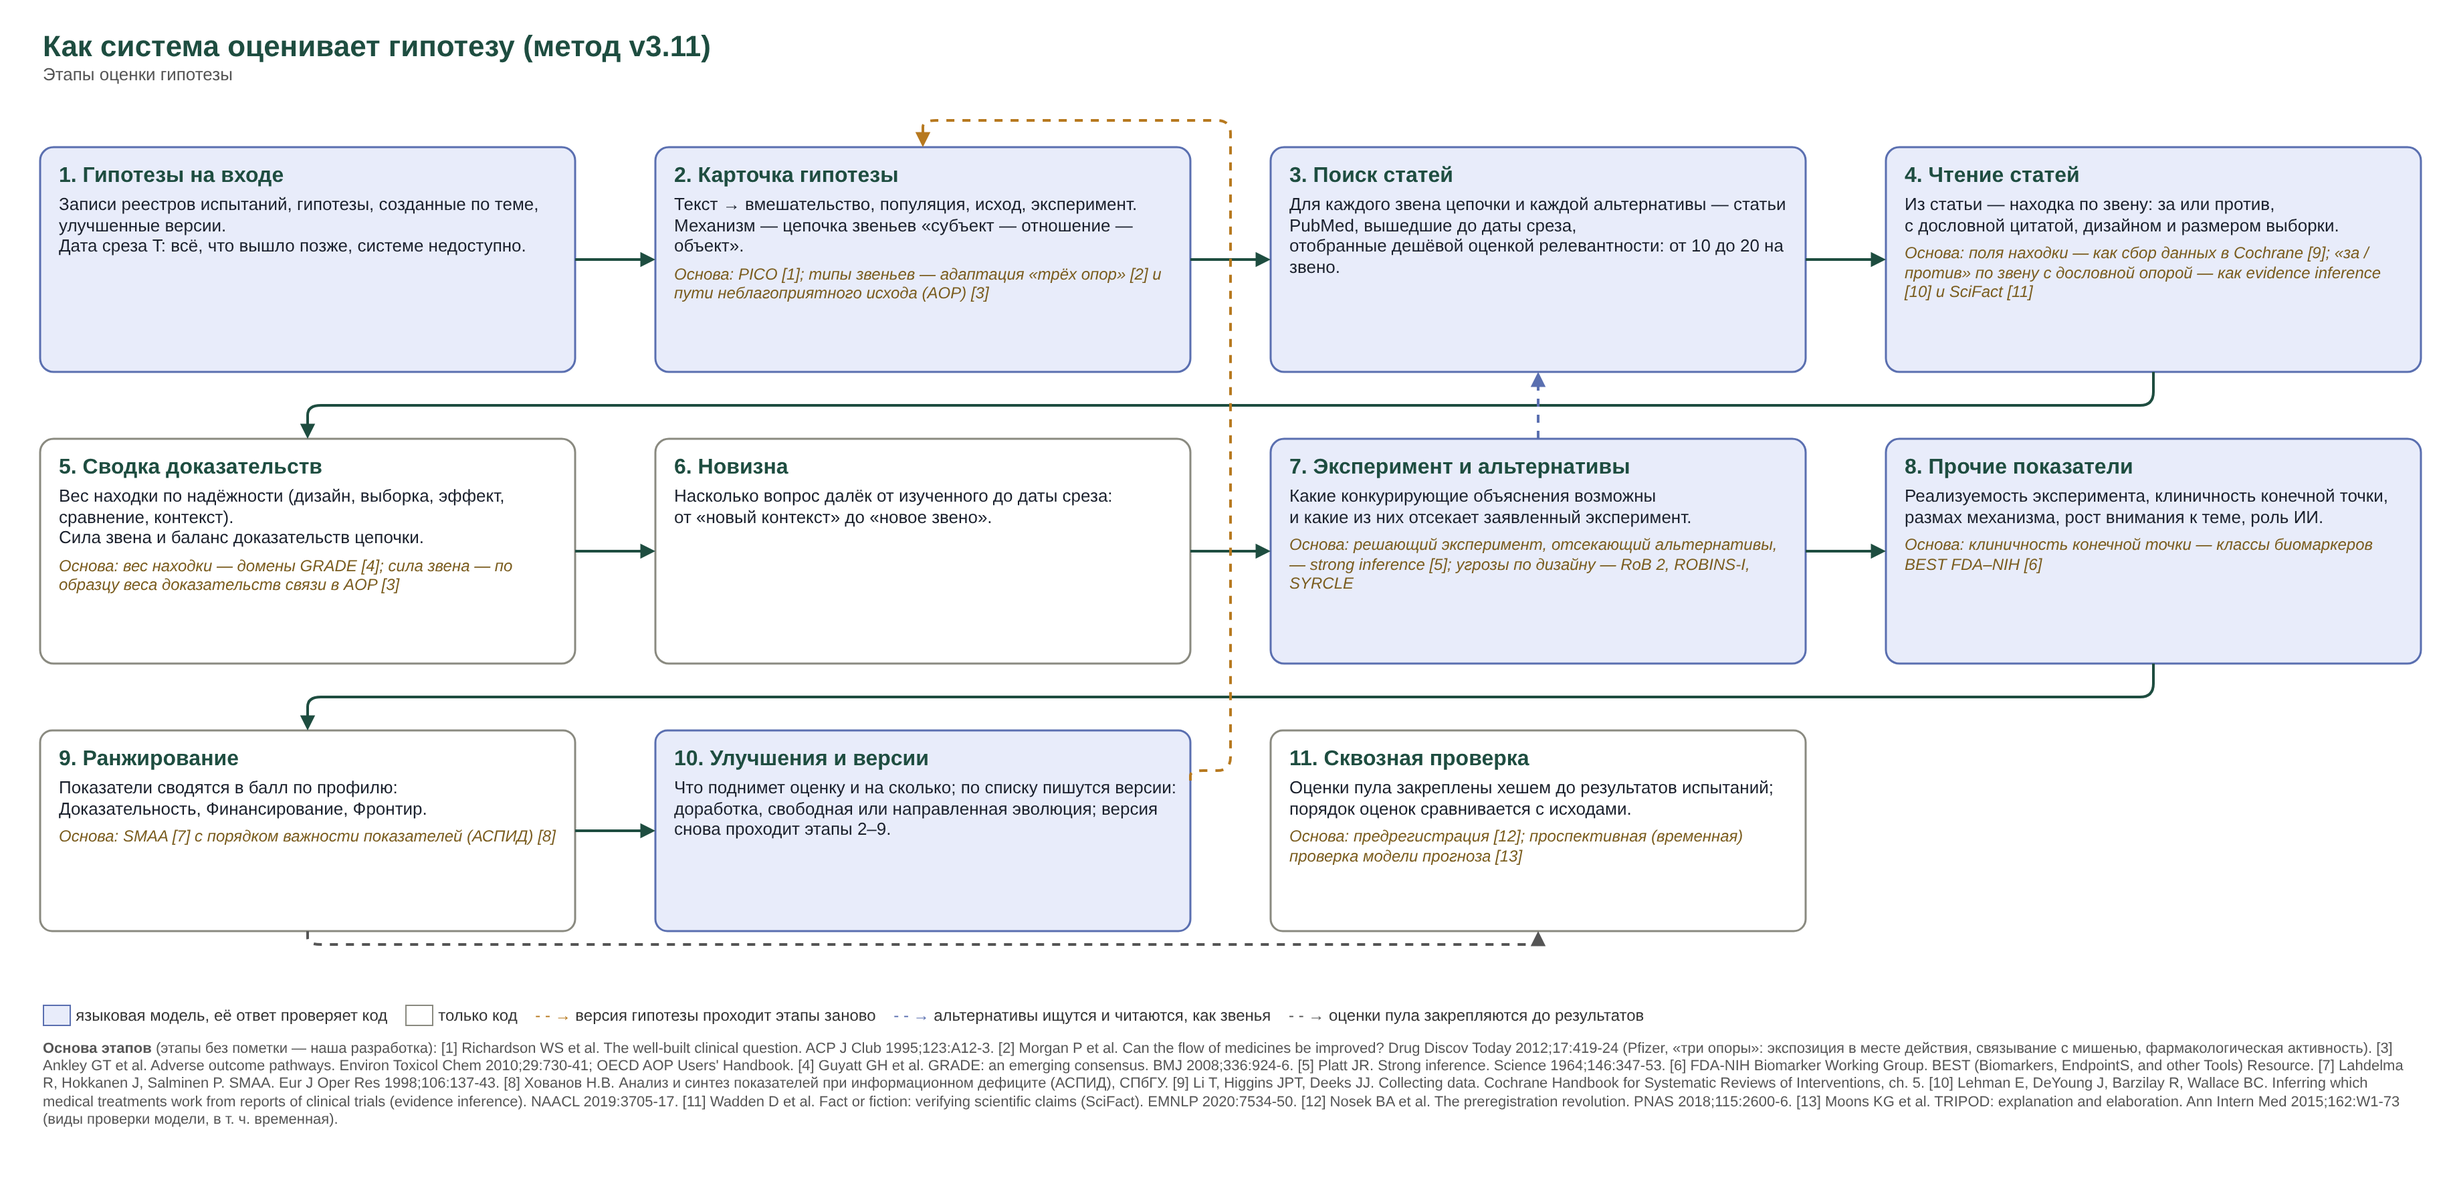
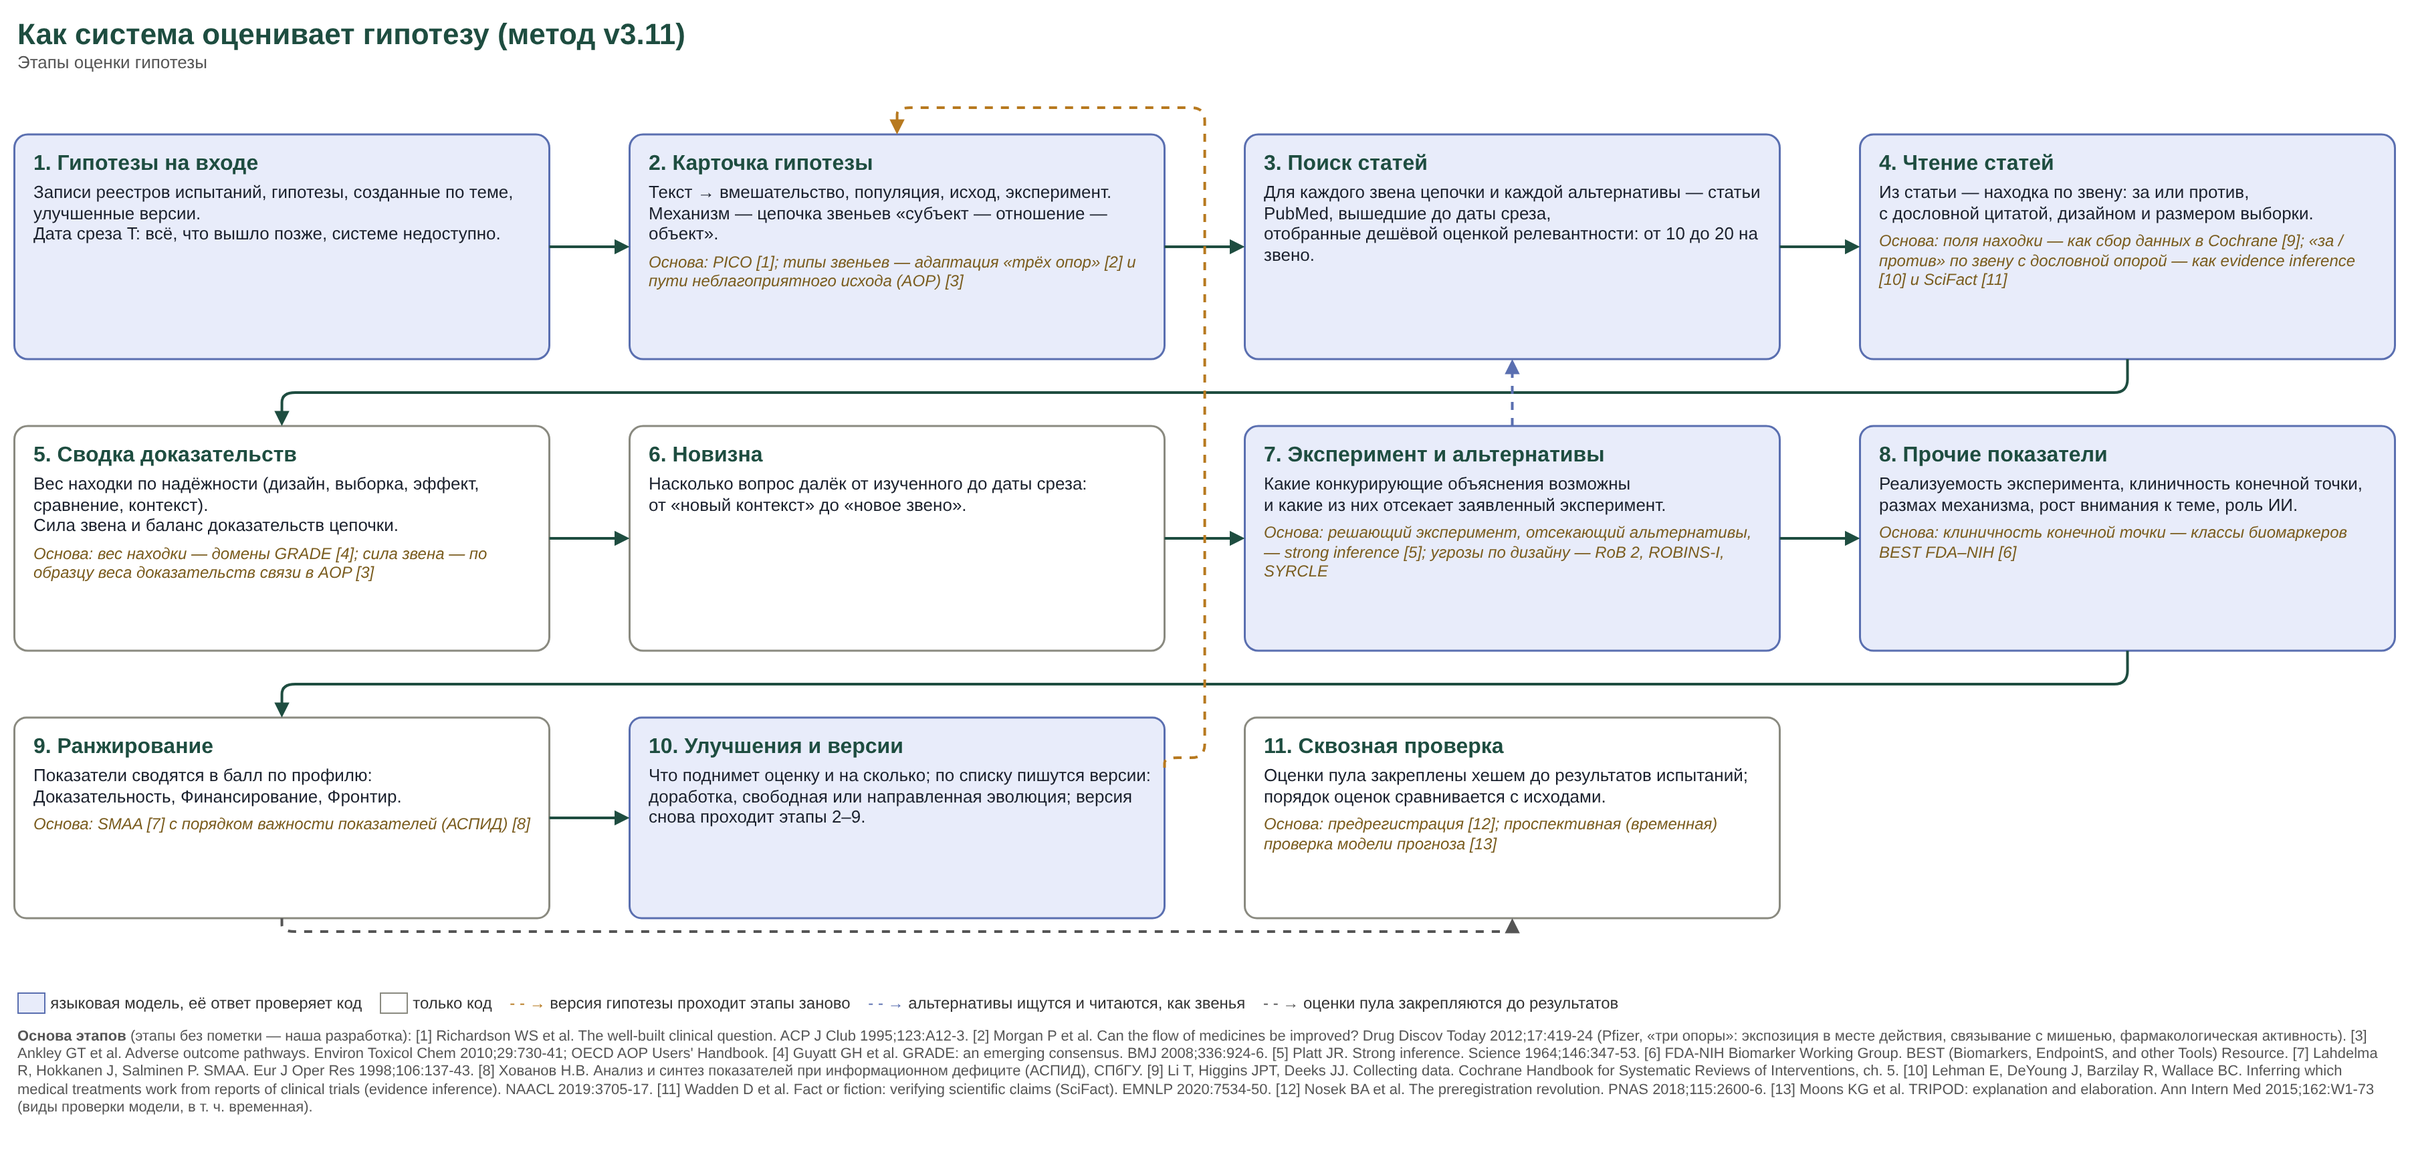
Schemes redrawn by a committed renderer (scripts/docs/render_png.js); flow scheme R2 updated; backlog rows closed this session
Claude-Session: https://claude.ai/code/session_014jxraCjTFHWU4KJvjYB1bf

diff --git a/scripts/docs/render_png.js b/scripts/docs/render_png.js
@@ -1,0 +1,49 @@
+// Renders the .drawio schemes of this folder to PNG (docs/method/schemes/) with mxgraph in headless Chromium.
+//
+//   npm i mxgraph@4.2.2            (in any folder outside the repository; MXCLIENT below points to it)
+//   python3 scripts/docs/build_flow.py && python3 scripts/docs/build_scheme.py     # the .drawio files
+//   MXCLIENT=/path/node_modules/mxgraph/javascript/mxClient.min.js node scripts/docs/render_png.js
+//
+// Needs the Node Playwright of the environment (require('playwright')). Each diagram is drawn at its own bounds, with
+// HTML labels, and screenshotted at deviceScaleFactor 2.
+const fs = require('fs');
+const path = require('path');
+const { chromium } = require('playwright');
+
+const HERE = __dirname;
+const OUT = path.join(HERE, '..', '..', 'docs', 'method', 'schemes');
+const MXCLIENT = process.env.MXCLIENT;
+const NAMES = process.argv.slice(2).length ? process.argv.slice(2)
+  : fs.readdirSync(HERE).filter(f => f.endsWith('.drawio')).map(f => f.replace(/\.drawio$/, ''));
+
+(async () => {
+  if (!MXCLIENT || !fs.existsSync(MXCLIENT)) throw new Error('set MXCLIENT to mxClient.min.js of mxgraph@4.2.2');
+  const browser = await chromium.launch();
+  const page = await browser.newPage({ deviceScaleFactor: 2, viewport: { width: 1200, height: 800 } });
+  await page.setContent('<html><body style="margin:0;background:#fff"><div id="g" style="position:relative;overflow:hidden"></div></body></html>');
+  await page.addScriptTag({ content: 'window.mxLoadResources = false; window.mxLoadStylesheets = false; window.mxBasePath = "";' });
+  await page.addScriptTag({ path: MXCLIENT });
+  for (const name of NAMES) {
+    const xml = fs.readFileSync(path.join(HERE, `${name}.drawio`), 'utf8');
+    const model = xml.match(/<mxGraphModel[\s\S]*<\/mxGraphModel>/)[0];
+    const size = await page.evaluate((model) => {
+      const c = document.getElementById('g');
+      c.innerHTML = '';
+      c.style.width = '10000px'; c.style.height = '10000px';
+      const graph = new mxGraph(c);
+      graph.setHtmlLabels(true);
+      graph.setEnabled(false);
+      const doc = mxUtils.parseXml(model);
+      new mxCodec(doc).decode(doc.documentElement, graph.getModel());
+      const b = graph.getGraphBounds();
+      graph.view.setTranslate(-b.x + 10, -b.y + 10);
+      const w = Math.ceil(b.width + 20), h = Math.ceil(b.height + 20);
+      c.style.width = w + 'px'; c.style.height = h + 'px';
+      return { w, h };
+    }, model);
+    await page.setViewportSize({ width: size.w, height: size.h });
+    await page.locator('#g').screenshot({ path: path.join(OUT, `${name}.png`) });
+    console.log(`${name}.png ${size.w}x${size.h}`);
+  }
+  await browser.close();
+})();

diff --git a/scripts/docs/build_flow.py b/scripts/docs/build_flow.py
@@ -7,7 +7,7 @@ link strength are one stage (both are the summary of the evidence); different th
 
     python scripts/docs/build_flow.py      # writes flow_<variant>.drawio for every variant in VARIANTS
 
-PNG: render each .drawio with mxgraph (see docs/method/README.md; the PNGs go to docs/method/schemes/)."""
+PNG: node scripts/docs/render_png.js (mxgraph in headless Chromium; the PNGs go to docs/method/schemes/)."""
 from pathlib import Path
 from xml.sax.saxutils import escape
 
@@ -61,7 +61,7 @@ STAGES = [
          base=["Вес находки по надёжности (дизайн, выборка, эффект, сравнение, контекст).",
                "Сила звена и баланс доказательств цепочки."],
          code=["Вес по доменам GRADE; сила звена из суммы «за» и «против»; баланс — среднее по звеньям с данными."],
-         own=["Поздние испытания: по находкам, вышедшим до более позднего РКИ или метаанализа того же звена, угадывается его результат (AUC 0.70).", "Внешний читатель вслепую упорядочивает 80 пар находок по надёжности; сравниваем с порядком наших весов."],
+         own=["Поздние испытания: по находкам, вышедшим до более позднего РКИ или метаанализа того же звена, угадывается его результат: AUC 0.58 на 722 целях (0.55 по парам разных звеньев; на хорошо изученных звеньях около 0.75).", "Внешний читатель вслепую упорядочивает 80 пар находок по надёжности; сравниваем с порядком наших весов."],
          base_llm=["Модели, спрошенные «подтвердится ли», угадывают лучше — но с утечкой; честно только проспективно."],
          why=["Каждый множитель — домен GRADE: дизайн (исходный уровень доверия), точность, крупный эффект, сравнение (часть риска смещения), непрямота.", "Исходы испытаний шумные и их мало, поэтому уровни подбирались по другим эталонам; из равных по качеству выбран более простой."]),
     dict(name="6. Новизна", params="новое звено — меньше 5 статей PubMed до T — порог задан до пилота, не калиброван.", kind="code",

diff --git a/docs/backlog.md b/docs/backlog.md
@@ -45,17 +45,17 @@ Items the user decided to defer; each points to its spec. Kept until done or dro
 | 2026-11-12 (MeSH done 2026-11-14: `hyparena/tools/mesh.py`, `normalizer.add_identifiers`) | Entity identifiers by code (MeSH via E-utilities first; ChEBI, HGNC when their hosts are open): exact match or MeSH entry term, else empty | manual section 3 (v13), `docs/method/card.md` section 3 | MeSH done 2026-11-14; ChEBI and HGNC when their hosts are open from the environment |
 | 2026-11-12 | AI role, plausible part: an LLM judges the role AI could play (two families, weight 1/2, the phrase it rests on), the stated role keeps weight 1; admission on an Argon gold (pack 17 has both parts) | `docs/method/card.md` section 3 | the prompt and the two-family run on pack 17 texts, priced |
 | 2026-11-12 | Link necessity (AOP essentiality): a record that blocks a step (knockout, inhibitor) weighs as such | `docs/method/foundations.md` (what we lack) | pools with molecular chains (frontier, generated) |
-| 2026-11-12 | Documentation: a detailed manual per stage (as `docs/method/card.md` for the card) and the summary manual `docs/method/manual.md` as their compressed aggregation (the outside reader works from it, so it stays self-contained); report rules stay sections 10 and 10a of the summary | `docs/method/card.md` | written: card, search, reading, from a record to the evidence balance (`docs/method/evidence.md`); novelty (`docs/method/novelty.md`), indicators and ranking (`docs/method/ranking.md`), improvements and versions (`docs/method/versions.md`), experiment and alternatives (`docs/method/alternatives.md`); next: the end-to-end check after the calibration run |
+| 2026-11-12 | Documentation: a detailed manual per stage (as `docs/method/card.md` for the card) and the summary manual `docs/method/manual.md` as their compressed aggregation (the outside reader works from it, so it stays self-contained); report rules stay sections 10 and 10a of the summary | `docs/method/card.md` | written: card, search, reading, from a record to the evidence balance (`docs/method/evidence.md`); novelty (`docs/method/novelty.md`), indicators and ranking (`docs/method/ranking.md`), improvements and versions (`docs/method/versions.md`), experiment and alternatives (`docs/method/alternatives.md`); the end-to-end check (`docs/validation/whole-system.md`, 2026-11-16): every stage has its manual; the method documents are in one folder, `docs/method/` (2026-11-16) |
 | 2026-11-12 | Edges between claims (requires, supports if true, analog of, contradicts) for the knowledge graph: links between claims of different hypotheses and papers; not extracted from v14 (no rule read them) | `docs/method/card.md` section 1 | with the knowledge-graph work (longevity-kg), when a consumer exists |
 | 2026-11-14 | Three checks of the whole system kept for method v3, nothing run yet: (1) historical check on ITP (Interventions Testing Program) mouse lifespan results — pool of 33 compounds tested after 2022 (8 extended lifespan, 3 harmful, 22 no effect) as the main one, the 2010 pool of 70 compounds only as a secondary one because models may remember its outcomes; (2) negatives test (true DrugAge finding among altered copies: other sex, dose, direction), possibly merged into the known-facts test of the reading stage; (3) comparison with a Co-Scientist-style baseline (one LLM judges pairs in a tournament, Elo rating) against the v3 ranking on the same pools with known outcomes | runners: `hyparena/whole_system/backtest.py` (`v2 --config`), `hyparena/whole_system/negatives.py`, `hyparena/coscientist/live.py --mode coscientist`, `hyparena/coscientist/ladder.py`; a free run with the fake LLM on 4 ITP compounds passed through v3 end to end | check the conversion of v3 output into the ranking scores and the profile names; write measures and pass rules into a spec; name the price (about 2.5 USD for the 2024 ITP pool, about 5 USD for the 2010 pool; the tournament priced after a trial count of calls) |
 | 2026-11-14 | Level 4 of the checks: generation compared with an LLM in a chat (one outside model in a chat, Argon or ChatGPT, for every arm: A without the manual; B structured generation and the steps of the method by the manual; free evolution by the manual of B (C) and of A (D); judges from the other families of the pool); first topic bioelectricity, 5 per arm | `specs/evolution/generation-comparison-2026-11-14.yaml`, `docs/validation/generation-arena.md` | on hold until the whole system is debugged (tasks A and B built, not sent); then: answers A and B, then the reports for A, the evolution tasks C and D, the checks, the report tabs, then the judges (about 0.70 USD for six cheap ones) after the user's go |
 | 2026-11-15 | Reading: an outcome-match field of the record (is the result on the claim's named outcome or a narrower measure of it), set by the reader and checked by code; needed to test the gate rule 'a null counts only on the claim's outcome' (the lexical check failed on 'ROM' and on 'secondary outcomes') | `specs/scoring/gate-fixes-2026-11-15.yaml` (G1) | done and failed (2026-11-16): the reader's own outcome mark does not agree with the outside reader (kappa about 0 on pack 25); found instead: a claim whose object is the organism was named to the reader by "human", not by its measure (readers v20 and v21, runs agreed); the gate rule G1 waits for a working outcome check |
-| 2026-11-15 | Full calibration run of the current method (search, reader v17, cross-link, new weights and gate) on the 74 trials: R3 under the working configuration, not on saved v10 runs | `specs/reading/benchmark-reading-2026-11-12.yaml` (auc_drop_explained) | spec written (`specs/whole-system/calibration-current-2026-11-16.yaml`), the reader is settled (v21): about 7.5 USD, user's go, off-peak |
+| 2026-11-15 | Full calibration run of the current method (search, reader v17, cross-link, new weights and gate) on the 74 trials: R3 under the working configuration, not on saved v10 runs | `specs/reading/benchmark-reading-2026-11-12.yaml` (auc_drop_explained) | done 2026-11-16 (`specs/whole-system/calibration-current-2026-11-16.yaml`): 73 of 74, about 6 USD; R3 0.578 (unclear by the rule), R2 0.579; the fall of R2 is a change of the target sample; noise of the pipeline costs R3 about 0.02. Open: R2 between links as the main measure; a larger pool (about 10 USD) for a narrower interval |
 | 2026-11-15 | Alternatives (pack 22): coverage 0.49 of Argon's top 3, methodological ones 0.34, design verdict κ about 0.1; the plain LLM is on par | `specs/alternatives/benchmark-alternatives-2026-11-14.yaml` | the design rule passed its check on registry trials (kappa 0.45 against the model's 0.14); a universal rule from the card's stated experiment, with threats per system (humans, animals, cells, data), is specified; Argon pack 28 scored (2026-11-16): the threat lists per system are complete (no 'other'); the code verdict from the card works for humans (kappa 0.46) and not for cells (0.07); a 'specificity control' field is asked for the card. Done 2026-11-16 (method v3.11, `specs/alternatives/threat-checklist-2026-11-16.yaml`): the fixed checklist per system, the verdict by code for humans, 'does not tell apart' plus the fix elsewhere, the checklist in I as one alternative of support 1/2. Open: a model verdict for cells and animals from a verbatim phrase (pack 28, about 0.05 USD, pass at kappa 0.40); the 'specificity control' field with card v18; selection and co-interventions ruled out when ITT and complete data are stated |
 | 2026-11-16 | Novelty: a fresh pack of written hypotheses with mechanisms, to check the main-factor rule out of sample (it was found and tuned on pack 26) | `specs/novelty/novelty-high-levels-2026-11-15.yaml` | build from the Bio Arena texts not yet used (cards needed for the new ones: priced) |
 | 2026-11-16 | Novelty: the regime rule (a record is the same question only in the claim's regime) is in the code, off: it rests on words a writer can add | `hyparena/novelty/novelty_v34.py` (REGIME) | only if a regime shows as a step of the chain and the fresh pack asks for it |
 | 2026-11-16 | Card template v18 ("the means not named" as an intervention type) on the card gold, for written hypotheses (main outcome agrees in 0.60 against 0.93 on registry texts) | `docs/method/card.md` section 7 | dry count and the user's go |
-| 2026-11-16 | Publication bias (GRADE domain 5): (a) a link where every record for is a small study (n under 100) and none is null — 9 of 72 outcome links with data on the 30 calibration trials; (b) silent trials: registered in ClinicalTrials.gov on the same intervention and outcome, completed before T, with no results and no publication (as Cochrane's ROB-ME) | to be specified; sources GRADE 5 (PMID 21802904), Turner 2008 (18199864), Sena 2010 (20361022), Kirkham 2010 (20156912) | (a) as a variant on R2 and R3, free; (b) a free scouting count on the 30 calibration trials first: how many links have silent trials and how well code matches the intervention and the outcome; then a flag with a down-rating or a weak record against |
+| 2026-11-16 | Publication bias (GRADE domain 5): (a) a link where every record for is a small study (n under 100) and none is null — 9 of 72 outcome links with data on the 30 calibration trials; (b) silent trials: registered in ClinicalTrials.gov on the same intervention and outcome, completed before T, with no results and no publication (as Cochrane's ROB-ME) | to be specified; sources GRADE 5 (PMID 21802904), Turner 2008 (18199864), Sena 2010 (20361022), Kirkham 2010 (20156912) | (a) done 2026-11-16 (`specs/scoring/small-positives-2026-11-16.yaml`): no variant passes, nothing changes; (b) a free scouting count on the 30 calibration trials first: how many links have silent trials and how well code matches the intervention and the outcome; then a flag with a down-rating or a weak record against |
 
 ## Closed 2026-11-16
 
